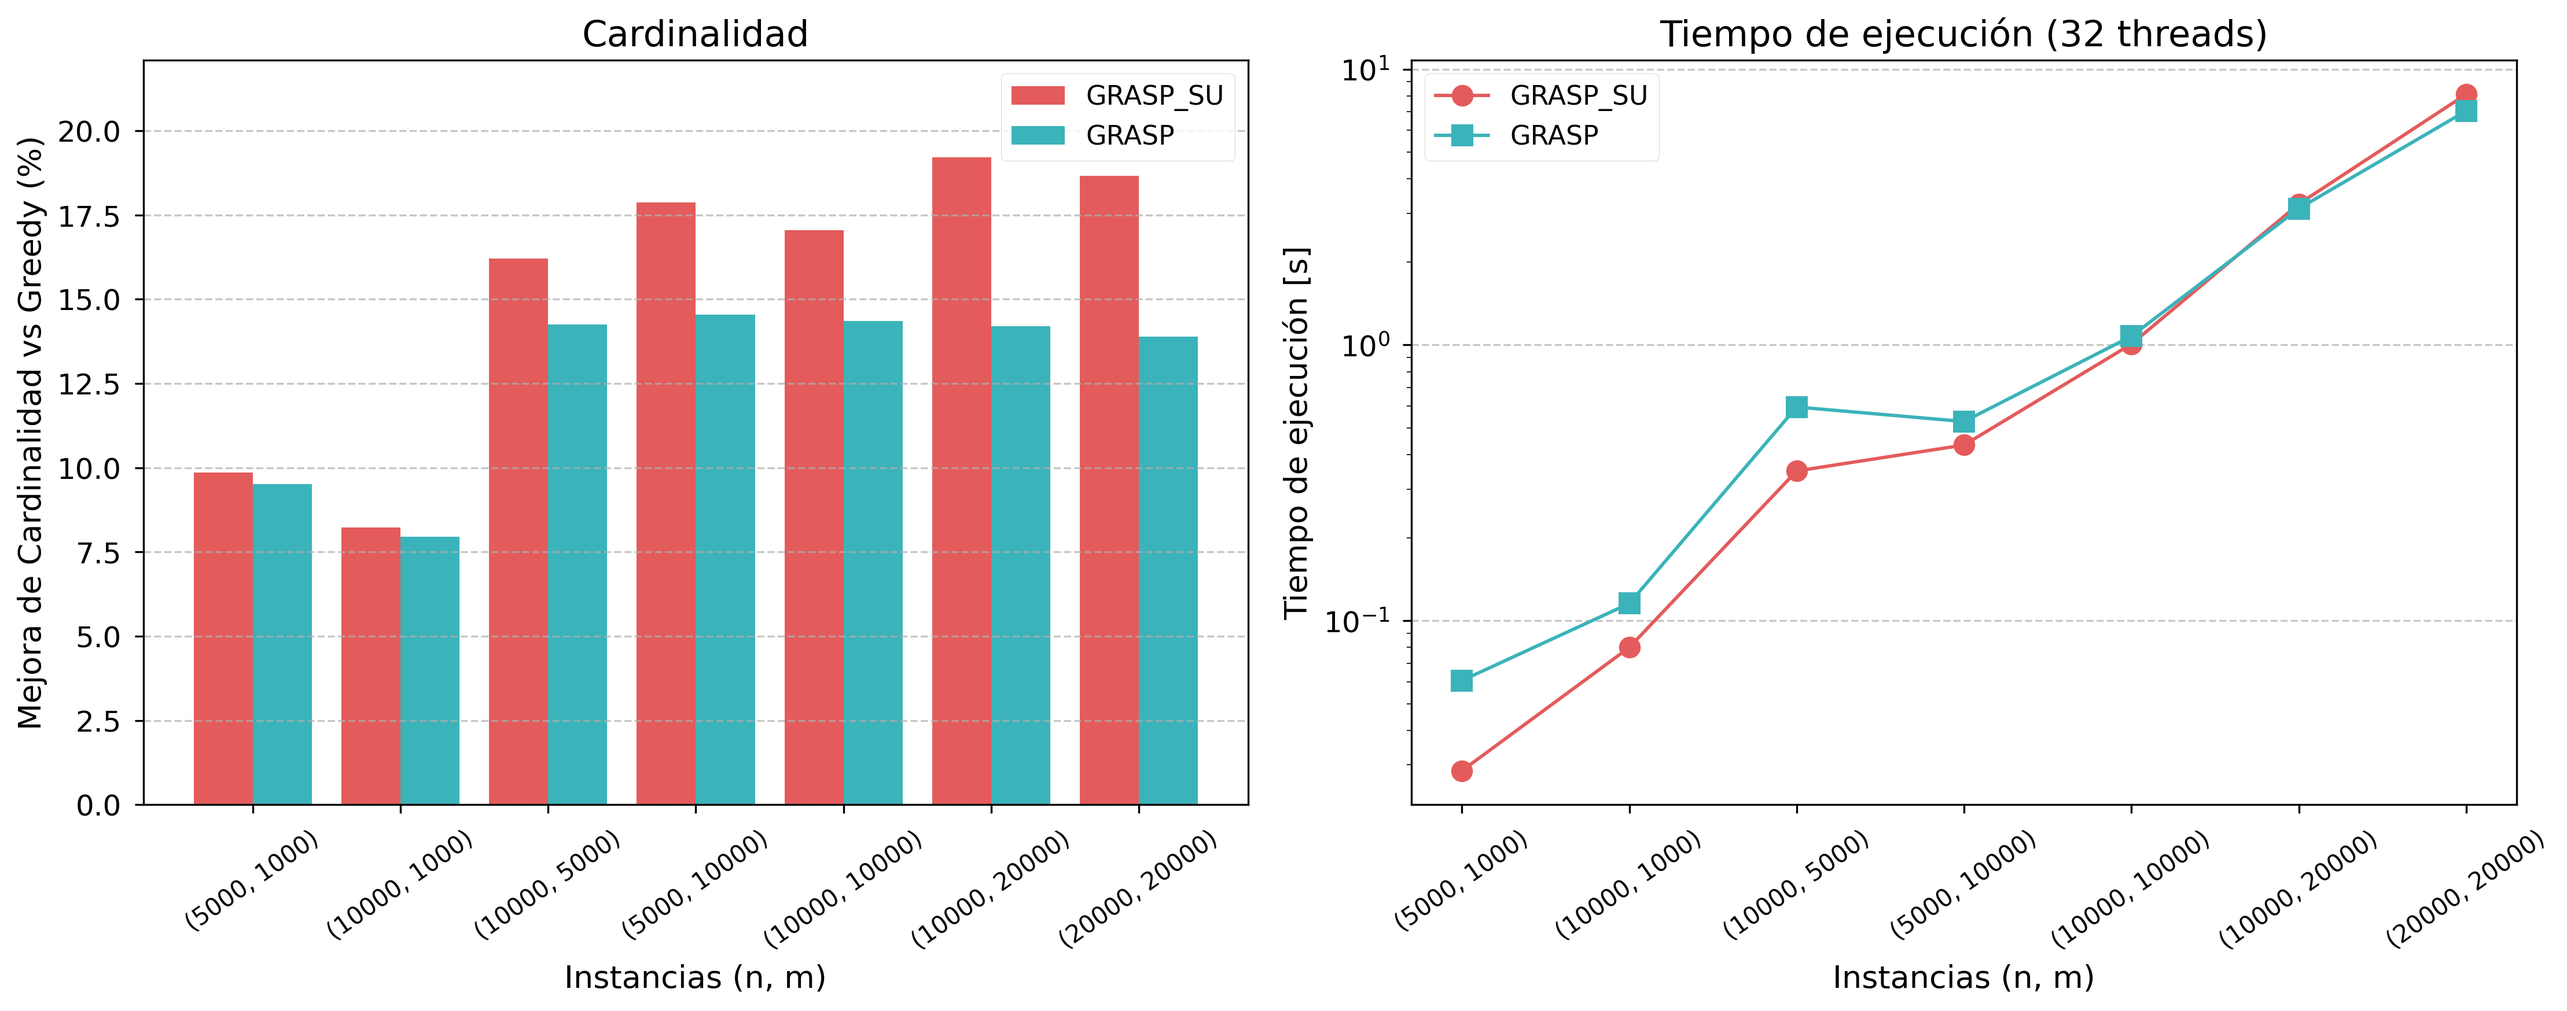
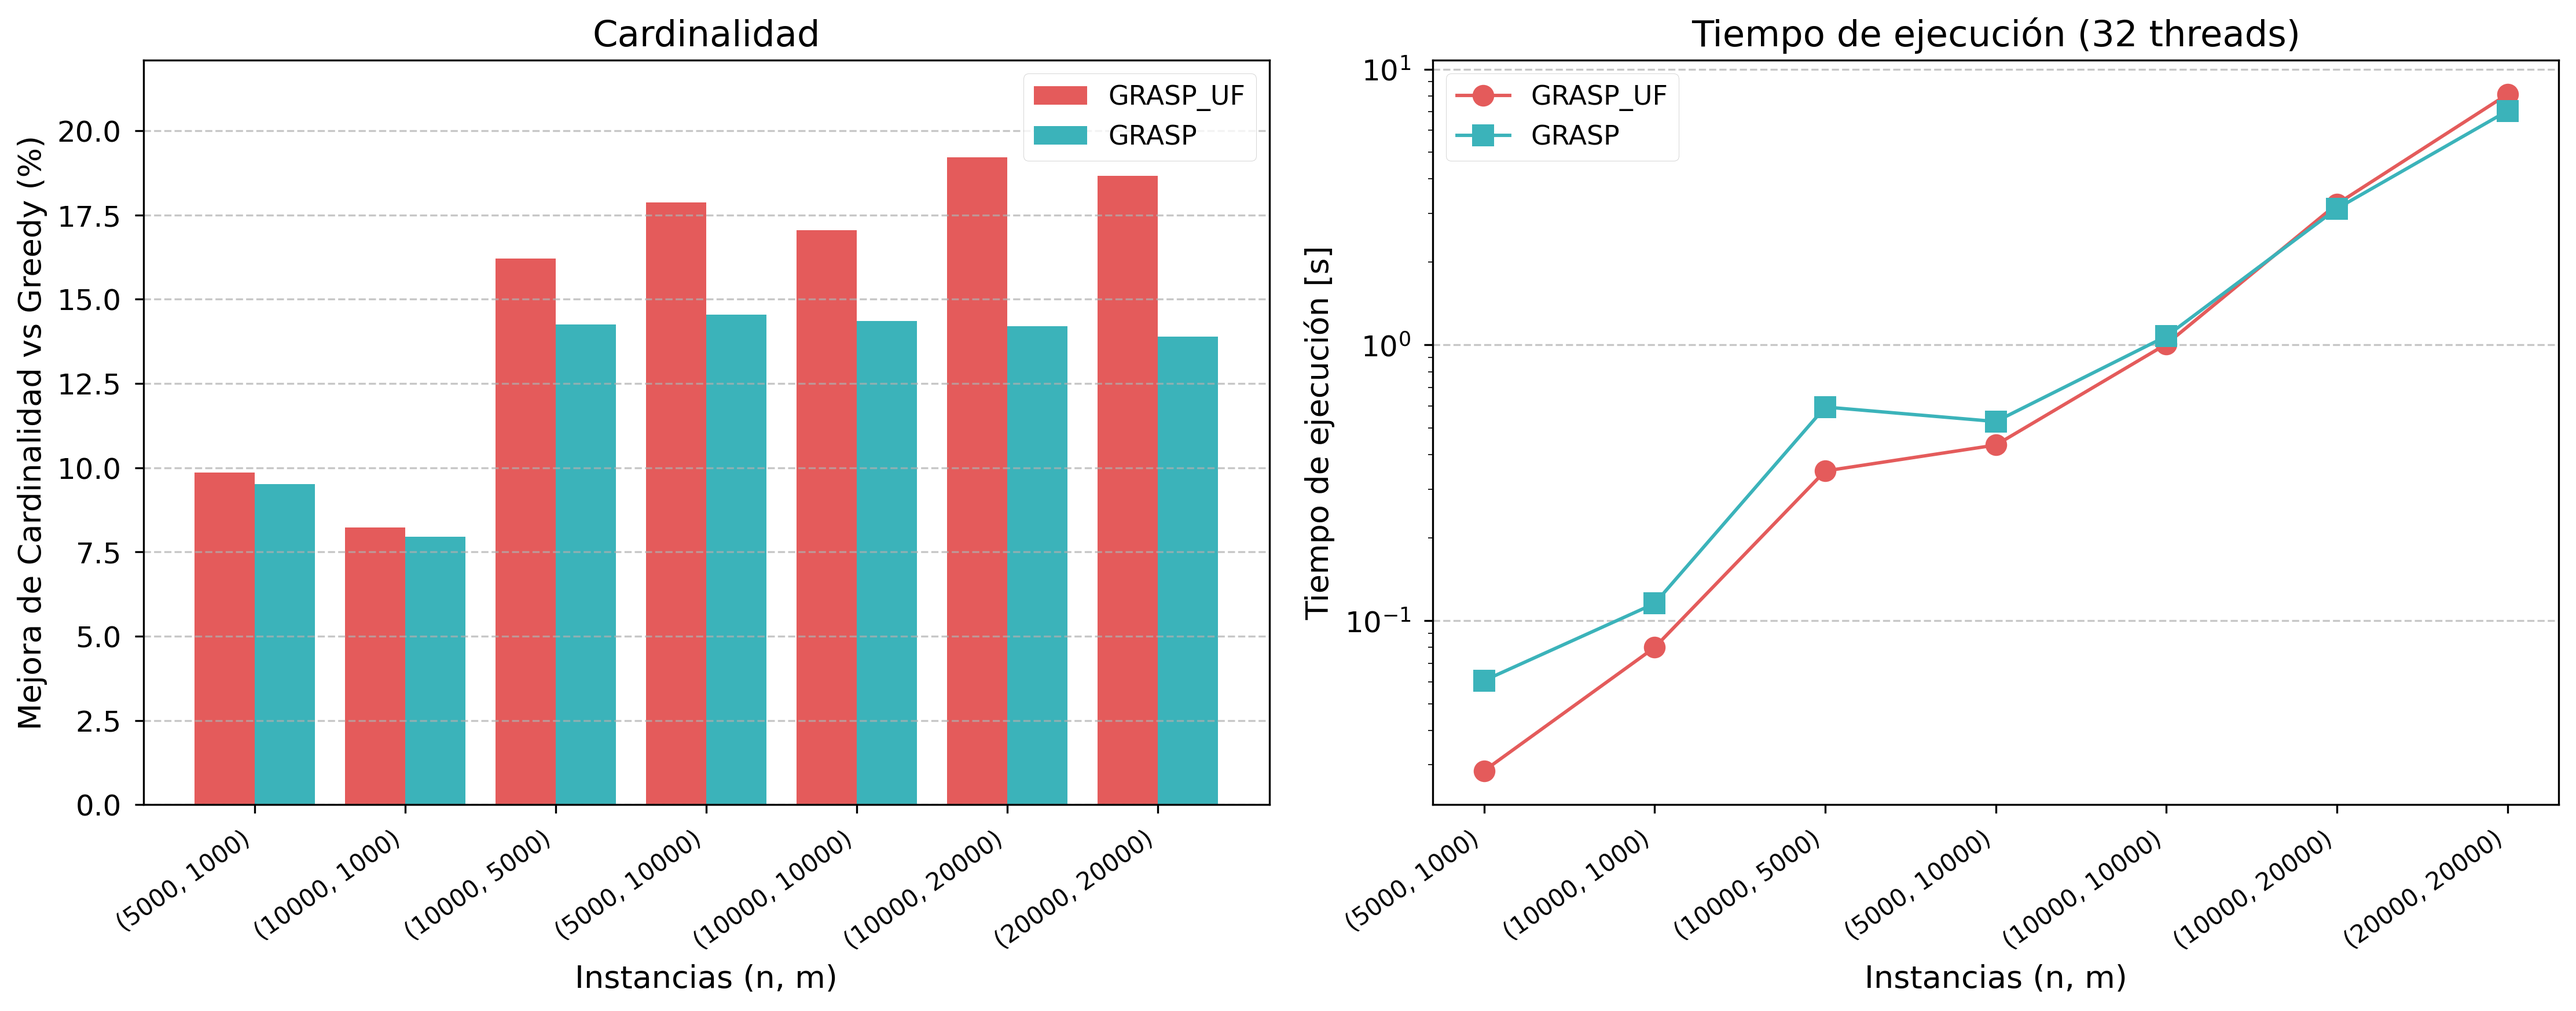
fases

diff --git a/main.cpp b/main.cpp
@@ -73,7 +73,7 @@ int main(int argc, char** argv) {
     Grasp alg(scp);
     double dur_apr;
     int best_card = numeric_limits<int>::max();;
-    for(int i=0; i<1; i++) {
+    for(int i=0; i<10; i++) {
         start_time = chrono::high_resolution_clock::now();
         SetCover sol = alg.search();
         end_time = chrono::high_resolution_clock::now();
